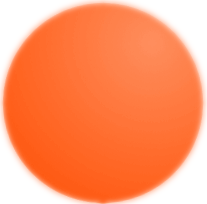
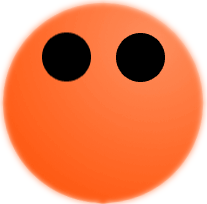
Added small snake eyes

Changed region(s): [[0.5507, 0.1471, 0.8116, 0.4118], [0.2029, 0.1471, 0.4638, 0.4118]]

diff --git a/games_sources/snake/src/Snake.cpp b/games_sources/snake/src/Snake.cpp
@@ -102,7 +102,7 @@ std::vector<std::unique_ptr<ISprite>> Snake::getSpritesToLoad() const
   s.push_back(std::make_unique<Sprite>("assets/snake/", "peach", 1, ".png", "$"));
   s.push_back(std::make_unique<Sprite>("assets/snake/", "strawberry", 1, ".png", "$"));
   s.push_back(std::make_unique<Sprite>("assets/snake/", "cherry", 1, ".png", "$"));
-  s.push_back(std::make_unique<Sprite>("assets/snake/", "head", 1, ".png", "$"));
+  s.push_back(std::make_unique<Sprite>("assets/snake/", "head", 4, ".png", "$"));
   s.push_back(std::make_unique<Sprite>("assets/snake/", "body", 1, ".png", "$"));
 
   return (s);

diff --git a/games_sources/snake/src/Player.cpp b/games_sources/snake/src/Player.cpp
@@ -30,6 +30,7 @@ void Player::display(Map &map, double ratio) const
         diff = Position(0, 0) + m_dir;
         tile.setColor(Color::Yellow);
         tile.setSprite(4);
+        tile.setSpritePos(static_cast<int>(m_dir));
       }
       // Body
       else
